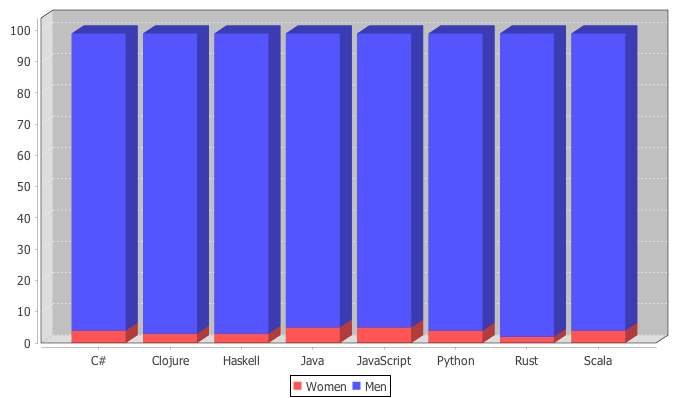
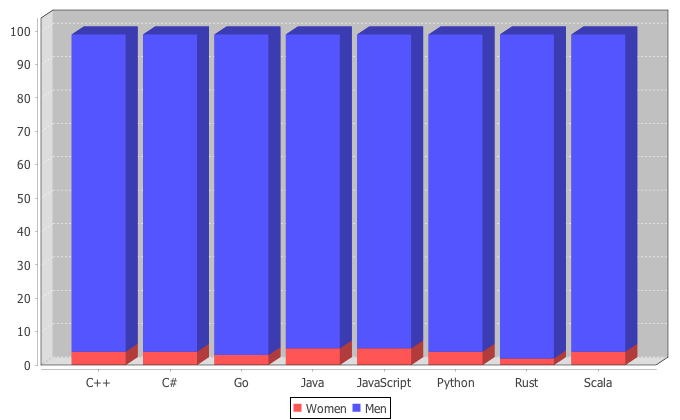
output png

diff --git a/genderlanguageparser.js b/genderlanguageparser.js
@@ -35,7 +35,7 @@ const countedData = data
     })
 
     const filteredArray = arrData.filter(x => {
-        return (["Scala","C#","Java", "Rust", "Clojure", "Haskell", "JavaScript", "Python"].includes(x.language))
+        return (["Go","Scala","C#","Java", "Rust", "CSS", "C++", "JavaScript", "Python"].includes(x.language))
     })
 
     const csvdata = filteredArray.map(x => {
